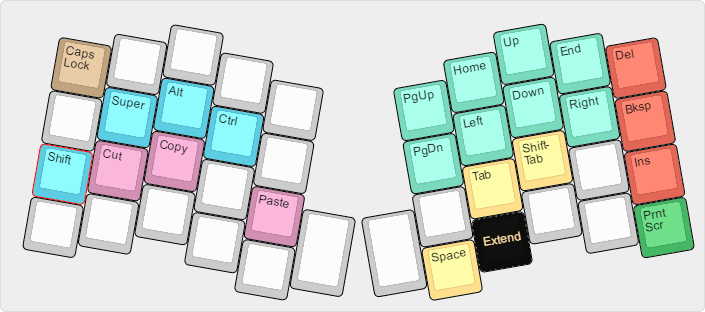
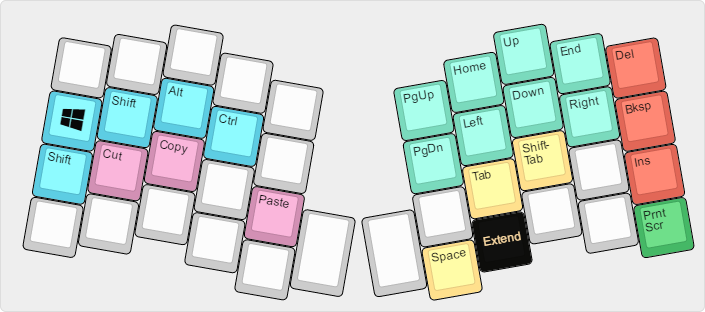
Updated README and images to reflect latest keymap

diff --git a/keyboards/atreus/keymaps/replicaJunction/readme.md b/keyboards/atreus/keymaps/replicaJunction/readme.md
@@ -10,13 +10,15 @@ I won't claim that this layout is perfect for everyone. It does make several sig
 
 ## Base Layer ##
 
-![Atreus base layout](atreus-replica-base-colemakdh.png)
+![Atreus base layout](atreus-replica-base.png)
 
 The letters on this layout are arranged in the [Colemak Mod-DH layout](https://colemakmods.github.io/mod-dh/).
 
-Note that there are four dual-purpose keys: Shift (Backspace), Ctrl (Delete), Alt (Enter), and Space (Number layer). In QMK, these dual-role keys can be made to hold their primary key by double-tapping the key and holding on the second tap. For example, if I wanted to insert a long string of Spaces, I would tap the Space key, then tap it again and hold. A single press and hold would trigger the secondary function of the key instead.
+The primary mechanism for the Shift keys in this keyboard are the dual-role Z and slash keys. Pressing the key sends the keystroke, while holding the key sends a shift. This is a design choice taken from the xyverz layout, and one I find much more intuitive than a thumb shift. In addition, the pinky doesn't need to stretch as far to reach these keys as it does to reach a standard Shift key.
 
-The secondary Alt on the left bottom row exists to provide a single-hand Alt+Tab shortcut, which would take two rows otherwise.
+Occasionally, when typing the letter Z, I'll hold the key down a fraction of a second too long, and the keyboard will shift instead. If you're not a confident typist, this dual-role Shift key layout is probably not a good solution. In that case, I'd suggest moving Shift onto the Backspace key (press for Backspace, hold for Shift).
+
+In addition to the Shift keys, there are three dual-purpose keys: Ctrl (Delete), Alt (Enter), and Space (Number layer). In QMK, these dual-role keys can be made to hold their primary key with a tap and hold. For example, if I wanted to insert a long string of Spaces, I would tap the Space key, then tap it again and hold. A single press and hold would trigger the secondary function of the key instead.
 
 ## Extend Layer ##
 
@@ -42,9 +44,11 @@ This layer also provides plenty of symbol shortcuts. Most of these can be access
 
 ![Atreus function layer](atreus-replica-function.png)
 
-Function keys (F1-F12) are on this layer, as well as some more generic "functions" such as media keys. I've also set up a mirror image of the arrows from the Extend layer in case I need to use these with my left hand, but I don't do this very often.
+Function keys (F1-F12) are on this layer. Their layout in groups of four comes from Jeremy's Atreus layout in this repository. I'd been using 1-9 in a numpad layout, then adding 10-12 on the side...I suppose it took seeing someone else do it this way for me to realize how much more sense it makes.
 
-The reset key is on this layer, as well as a toggle from Colemak to QWERTY and back. The QWERTY layer is not currently documented, but it is functionally identical to the base layer except for letter positions.
+On the right side are mouse keys - cursor left/right/up/down, and scroll up/down. Volume keys are also here, though really only because there was room for them (I'm not entirely happy with their positions).
+
+Finally, the reset key is on this layer, as well as toggles from Colemak to QWERTY and back. The QWERTY layer is not currently documented, but it is functionally identical to the base layer except for letter positions.
 
 ## Gaming Layer ##
 
@@ -54,4 +58,4 @@ This is a small layer developed to allow some simple gameplay without a mouse. T
 
 The keys on the left hand bring Space into the left thumb's reach, as well as overriding the dual-role Shift with its standard function (Z in both QWERTY and in Colemak). This allows easy Shift presses without blocking the Z key, commonly used in games.
 
-I would probably not consider this a hard-core gaming keyboard, and this layout does have the huge problem of blocking access to the number keys, but for more casual games, it plays quite well. I've used it quite a bit on Minecraft, for example, and I'm quite pleased with it.
+I would probably not consider the Atreus a hard-core gaming keyboard in the first place, and this layout does have the huge problem of blocking access to the number keys, but for more casual games, it plays quite well. I've used it quite a bit on Minecraft, for example, and I'm quite pleased with it.
